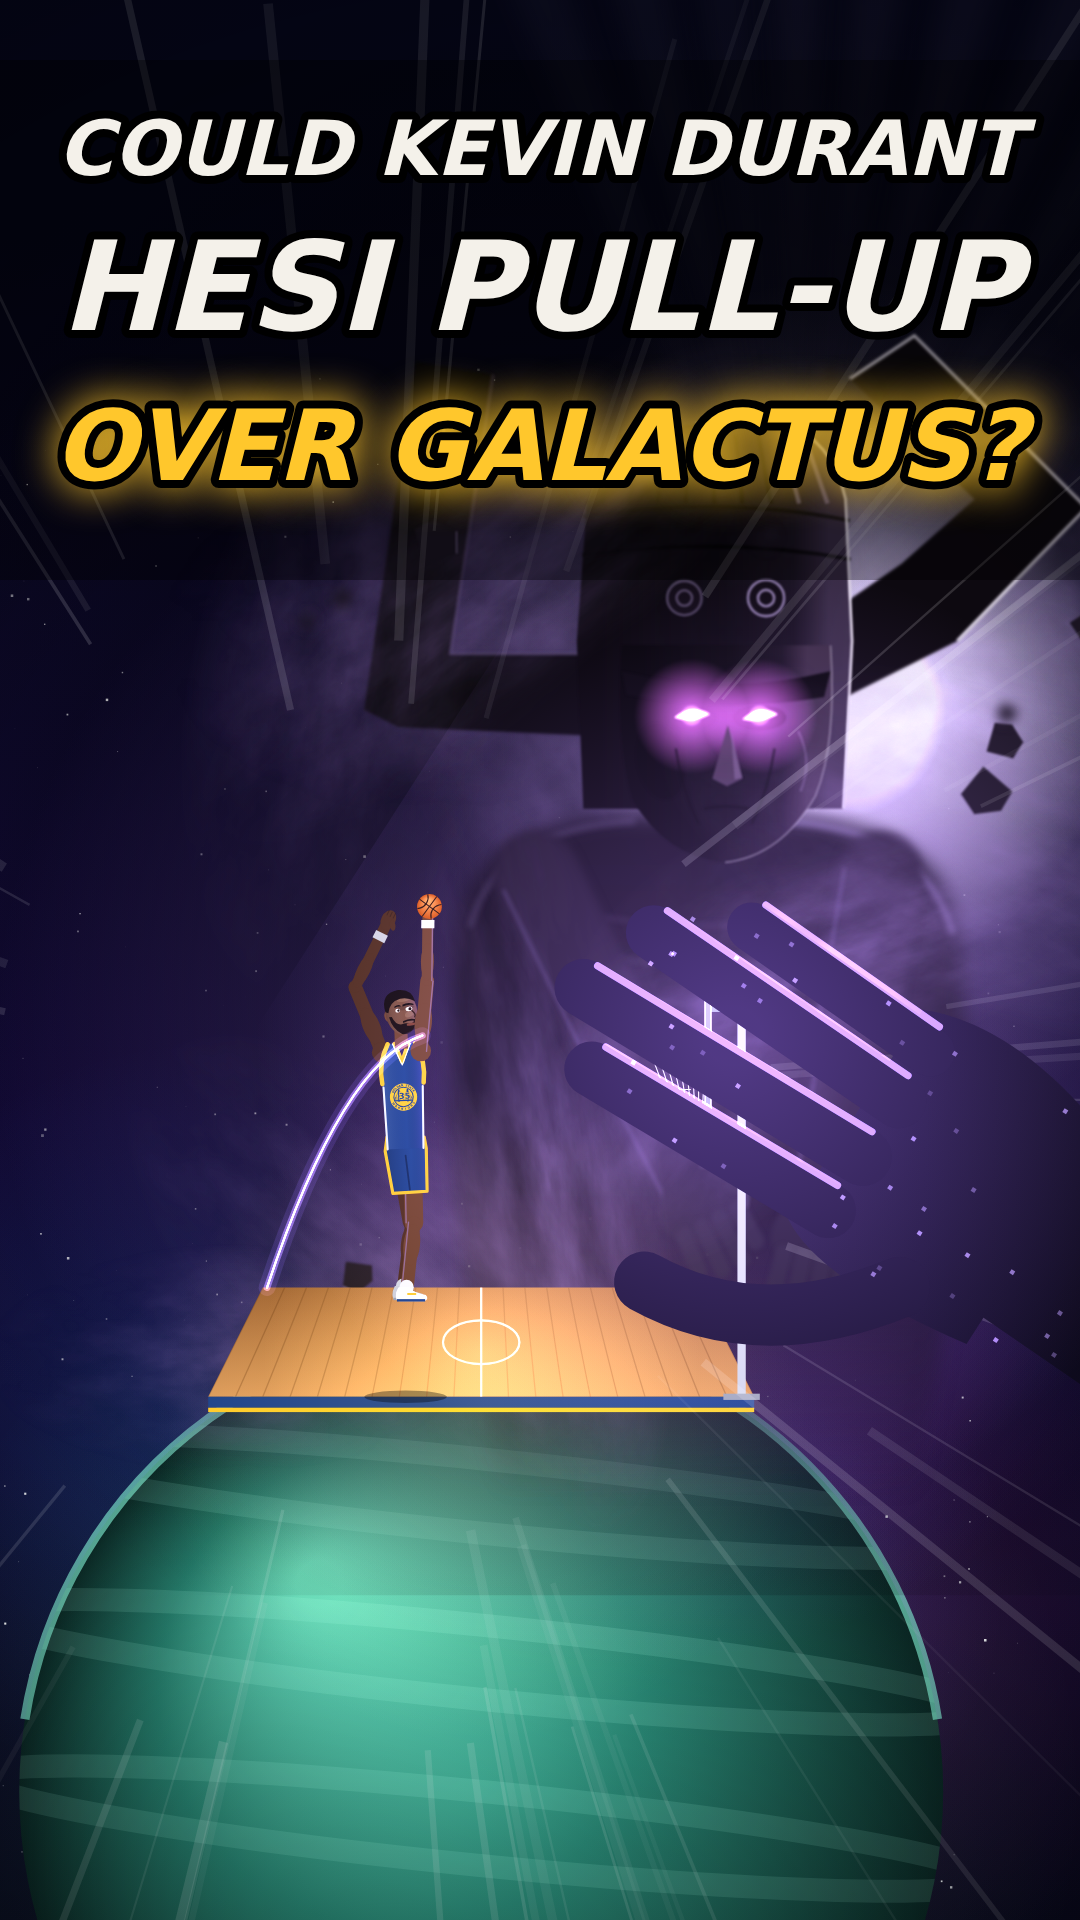
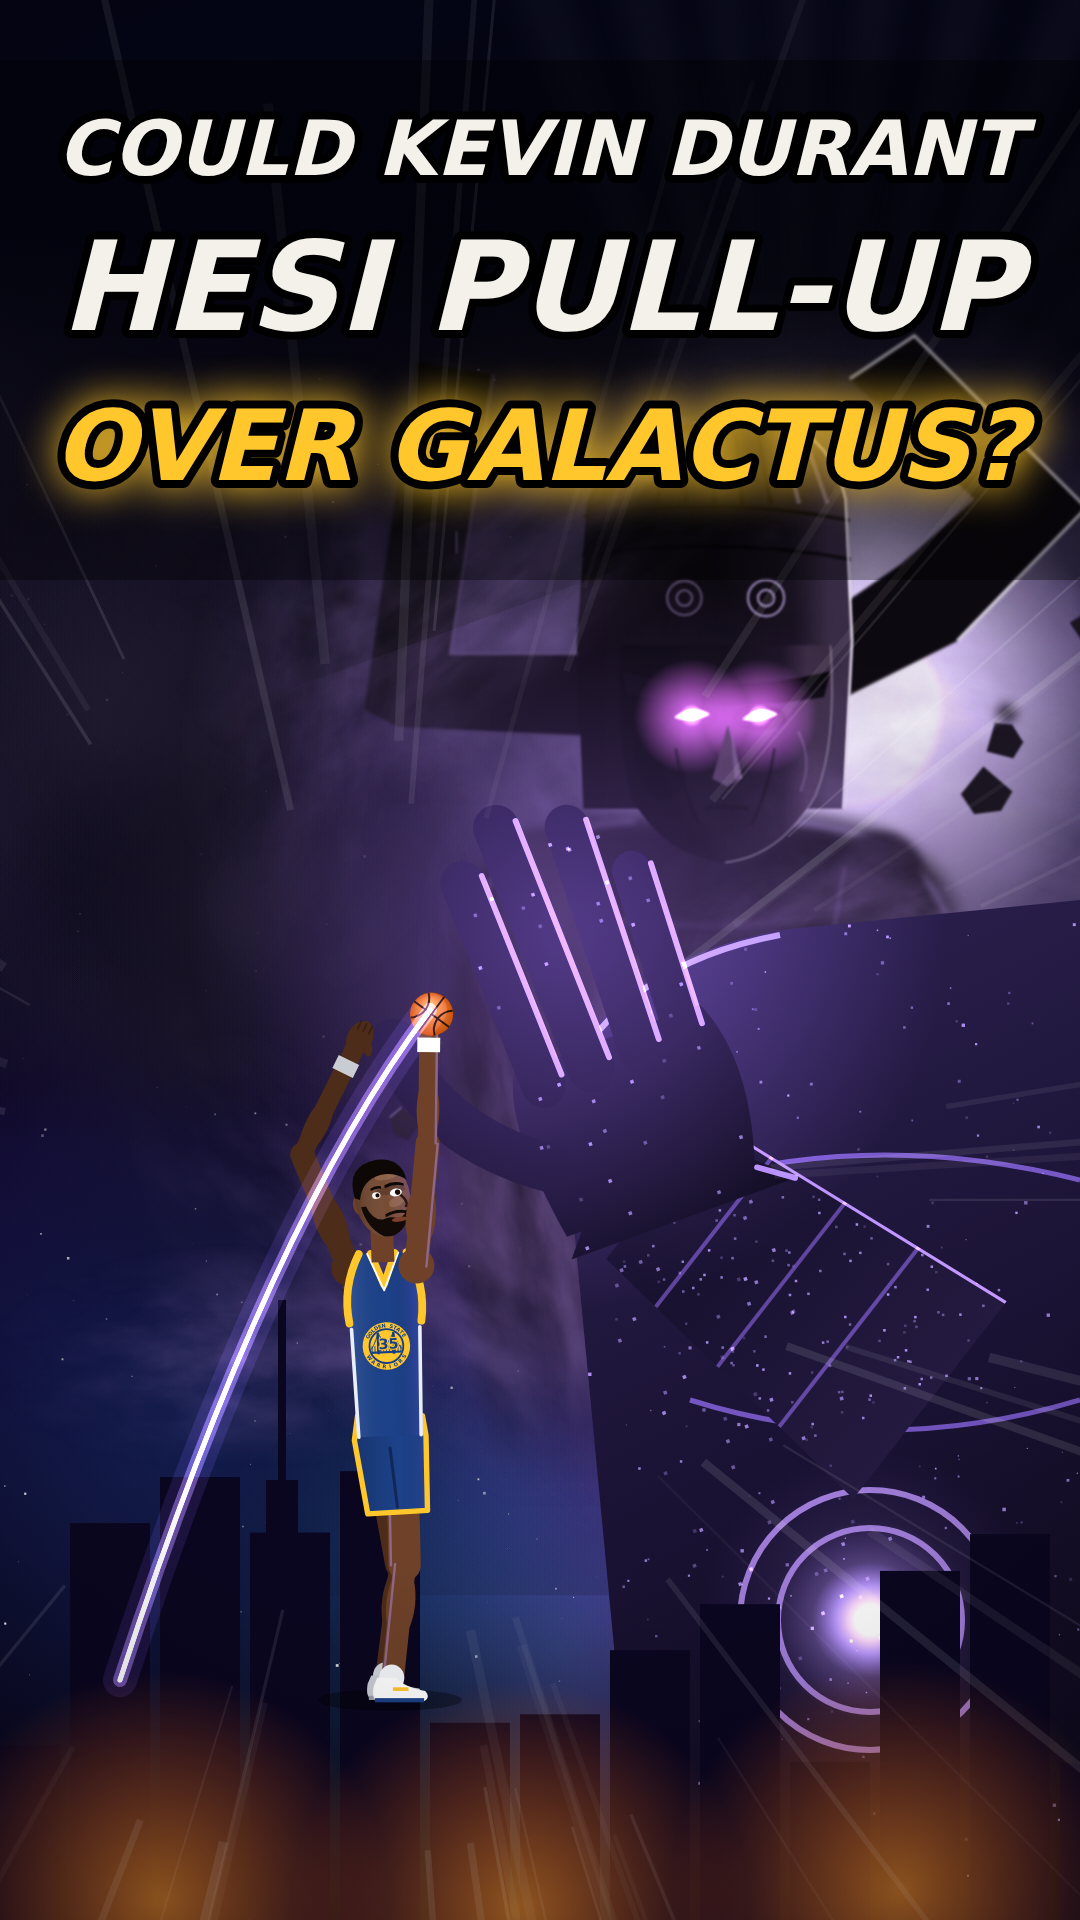
KD vs Galactus: thumbnail with Galactus arm attached to his body, city, ball trail
Claude-Session: https://claude.ai/code/session_013waGN2ARspf4yShZssZUe5

diff --git a/youtube/you-experiment/kd-galactus/source_code/thumbv.html b/youtube/you-experiment/kd-galactus/source_code/thumbv.html
@@ -253,10 +253,10 @@ window.renderFrame = (f) => { const t = f / 30; T = t; SHK = 0; g.setTransform(1
   if (u < 0.1 && i > 0) { g.fillStyle = `rgba(255,255,255,${0.08 * (1 - u / 0.1)})`; g.fillRect(0, 0, W, H); }
   return true; };
 
-const blockHand = (x, y, sc, rot) => { g.save(); g.translate(x, y); g.rotate(rot); g.scale(sc, sc);
+const blockHand = (x, y, sc, rot, fl = 900) => { g.save(); g.translate(x, y); g.rotate(rot); g.scale(sc, sc);
   const body = g.createLinearGradient(-100, -200, 120, 160); body.addColorStop(0, '#2a1f45'); body.addColorStop(0.6, '#150f2b'); body.addColorStop(1, '#0a0716');
   // forearm
-  g.fillStyle = body; g.beginPath(); g.moveTo(-70, 120); g.lineTo(-95, 900); g.lineTo(115, 900); g.lineTo(80, 120); g.closePath(); g.fill();
+  g.fillStyle = body; g.beginPath(); g.moveTo(-70, 120); g.lineTo(-95, fl); g.lineTo(115, fl); g.lineTo(80, 120); g.closePath(); g.fill();
   // palm
   g.beginPath(); g.moveTo(-92, 130); g.quadraticCurveTo(-110, 20, -86, -20); g.lineTo(86, -20); g.quadraticCurveTo(112, 40, 82, 130); g.closePath(); g.fill();
   const fing = [[-66, -190, 38], [-22, -225, 40], [24, -205, 38], [64, -150, 34]];
@@ -266,21 +266,44 @@ const blockHand = (x, y, sc, rot) => { g.save(); g.translate(x, y); g.rotate(rot
   g.save(); g.clip && 0; g.globalCompositeOperation = 'lighter';
   for (let k = 0; k < 90; k++) { g.fillStyle = `rgba(200,170,255,${0.2 + hash(k) * 0.5})`; g.fillRect(-90 + hash(k * 3 + 1) * 180, -200 + hash(k * 5 + 2) * 760, 3, 3); }
   g.strokeStyle = 'rgba(190,150,255,0.85)'; g.lineWidth = 5; for (const [fx, ty] of fing) { g.beginPath(); g.moveTo(fx + 18, -4); g.lineTo(fx + (fx > 0 ? 6 : -6) + 18, ty); g.stroke(); }
-  g.beginPath(); g.moveTo(84, 130); g.lineTo(112, 900); g.stroke(); g.restore();
+  g.beginPath(); g.moveTo(84, 130); g.lineTo(112, fl); g.stroke(); g.restore();
   const pg2 = g.createRadialGradient(0, -120, 20, 0, -120, 330); pg2.addColorStop(0, 'rgba(170,120,255,0.35)'); pg2.addColorStop(1, 'rgba(170,120,255,0)'); g.globalCompositeOperation = 'lighter'; g.fillStyle = pg2; g.fillRect(-400, -400, 800, 800);
   g.restore(); };
-window.renderThumb = () => { T = 2.2; g.setTransform(1, 0, 0, 1, 0, 0); g.save(); cam(TZ, TFX, TFY); nebula(0, 0); planet(560, 2500, 1100);
-  const gl = g.createRadialGradient(900, 700, 50, 900, 700, 1500); gl.addColorStop(0, 'rgba(190,150,255,0.5)'); gl.addColorStop(1, 'rgba(120,80,220,0)'); g.fillStyle = gl; g.fillRect(-2000, -2000, 8000, 6000);
-  giant(TGX, 1560, 1.05, { left: TL, hand: 0.1, eyes: 1.9 });
-  court(560, 1560, 1300); hoop(1180, 1560, 0.62);
-  kd(TKX, 1560, TKS, P.shoot, { jump: 230, holdBall: true });
-  g.save(); g.globalCompositeOperation = 'lighter'; g.lineCap = 'round'; for (const [w, a, col] of [[40, 0.12, '150,110,255'], [16, 0.4, '190,150,255'], [5, 0.95, '245,235,255']]) { g.strokeStyle = `rgba(${col},${a})`; g.lineWidth = w; g.beginPath(); g.moveTo(TKX - 330, 1300); g.quadraticCurveTo(TKX - 150, 760, TKX + 40, TBY); g.stroke(); } g.restore();
-  g.restore(); speedLines(380, 1100, 0.2);
-  blockHand(HX, HY, HS, HR);
-  const vg = g.createRadialGradient(W / 2, 1000, H * 0.3, W / 2, 1000, H * 0.8); vg.addColorStop(0, 'rgba(0,0,0,0)'); vg.addColorStop(1, 'rgba(0,0,0,0.55)'); g.fillStyle = vg; g.fillRect(0, 0, W, H);
+const armorTorso = () => { g.save();
+  const body = g.createLinearGradient(600, 950, 1080, 1900); body.addColorStop(0, '#2c2150'); body.addColorStop(0.5, '#1a1233'); body.addColorStop(1, '#0c0818');
+  g.fillStyle = body; g.beginPath(); g.moveTo(560, 1080); g.quadraticCurveTo(620, 960, 780, 930); g.lineTo(1080, 900); g.lineTo(1080, 1920); g.lineTo(640, 1920); g.quadraticCurveTo(600, 1500, 560, 1080); g.closePath(); g.fill();
+  g.save(); g.clip(); g.globalCompositeOperation = 'lighter'; for (let k = 0; k < 260; k++) { g.fillStyle = `rgba(200,170,255,${0.15 + hash(k) * 0.6})`; const r = 1 + hash(k + 9) * 2.5; g.fillRect(560 + hash(k * 3 + 1) * 520, 920 + hash(k * 5 + 2) * 1000, r, r); }
+  g.strokeStyle = 'rgba(160,120,255,0.55)'; g.lineWidth = 5; g.beginPath(); g.moveTo(700, 1180); g.quadraticCurveTo(880, 1130, 1080, 1180); g.stroke(); g.beginPath(); g.moveTo(690, 1400); g.quadraticCurveTo(880, 1460, 1080, 1400); g.stroke(); g.restore();
+  // chest core
+  for (const [r, a] of [[170, 0.18], [100, 0.45], [58, 0.9]]) { const q = g.createRadialGradient(870, 1620, 2, 870, 1620, r); q.addColorStop(0, `rgba(235,215,255,${a})`); q.addColorStop(1, 'rgba(150,100,255,0)'); g.globalCompositeOperation = 'lighter'; g.fillStyle = q; g.fillRect(870 - r, 1620 - r, 2 * r, 2 * r); }
+  g.globalCompositeOperation = 'source-over'; g.strokeStyle = 'rgba(190,150,255,0.8)'; g.lineWidth = 6; g.beginPath(); g.arc(870, 1620, 92, 0, 7); g.stroke(); g.beginPath(); g.arc(870, 1620, 130, 0, 7); g.stroke();
+  // rim light on the shoulder line
+  g.strokeStyle = 'rgba(200,170,255,0.8)'; g.lineWidth = 6; g.beginPath(); g.moveTo(565, 1085); g.quadraticCurveTo(620, 965, 780, 935); g.stroke();
+  g.restore(); };
+const armLimb = (sx, sy, wx, wy, w0, w1) => { g.save(); const dx = wx - sx, dy = wy - sy, L = Math.hypot(dx, dy), nx = -dy / L, ny = dx / L;
+  const body = g.createLinearGradient(sx, sy, wx, wy); body.addColorStop(0, '#241a40'); body.addColorStop(1, '#150f2b'); g.fillStyle = body;
+  g.beginPath(); g.moveTo(sx + nx * w0 / 2, sy + ny * w0 / 2); g.lineTo(wx + nx * w1 / 2, wy + ny * w1 / 2); g.lineTo(wx - nx * w1 / 2, wy - ny * w1 / 2); g.lineTo(sx - nx * w0 / 2, sy - ny * w0 / 2); g.closePath(); g.fill();
+  g.save(); g.clip(); g.globalCompositeOperation = 'lighter'; for (let k = 0; k < 150; k++) { g.fillStyle = `rgba(200,170,255,${0.15 + hash(k + 40) * 0.6})`; const t = hash(k * 3), o = (hash(k * 5 + 1) - 0.5) * w0; g.fillRect(sx + dx * t + nx * o, sy + dy * t + ny * o, 2.5, 2.5); }
+  g.strokeStyle = 'rgba(190,150,255,0.85)'; g.lineWidth = 6; g.beginPath(); g.moveTo(sx + nx * w0 / 2, sy + ny * w0 / 2); g.lineTo(wx + nx * w1 / 2, wy + ny * w1 / 2); g.stroke();
+  for (const t of [0.3, 0.55, 0.8]) { g.strokeStyle = 'rgba(150,110,240,0.45)'; g.lineWidth = 4; const cx = sx + dx * t, cy = sy + dy * t, w = lerp(w0, w1, t) / 2; g.beginPath(); g.moveTo(cx + nx * w, cy + ny * w); g.lineTo(cx - nx * w, cy - ny * w); g.stroke(); } g.restore();
+  g.restore(); };
+window.renderThumb = () => { T = 2.2; g.setTransform(1, 0, 0, 1, 0, 0); g.save(); cam(TZ, TFX, TFY); nebula(0, 0);
+  for (let k = 0; k < 70; k++) { const cx = -1200 + hash(k * 3 + 1) * 3200, cy = -800 + hash(k * 5 + 2) * 1600, r = 260 + hash(k * 7 + 3) * 520, dk = 0.35 + hash(k * 11 + 4) * 0.5; const q = g.createRadialGradient(cx, cy, 10, cx, cy, r); q.addColorStop(0, `rgba(${40 + 50 * (1 - dk) | 0},${34 + 40 * (1 - dk) | 0},${60 + 50 * (1 - dk) | 0},${0.55 * dk})`); q.addColorStop(1, 'rgba(10,8,25,0)'); g.fillStyle = q; g.fillRect(cx - r, cy - r, 2 * r, 2 * r); }
+  const gl = g.createRadialGradient(1500, 500, 50, 1500, 500, 1500); gl.addColorStop(0, 'rgba(190,150,255,0.5)'); gl.addColorStop(1, 'rgba(120,80,220,0)'); g.fillStyle = gl; g.fillRect(-2000, -2000, 8000, 6000);
+  giant(TGX, 1560, 1.05, { left: 0.2, hand: 0.1, eyes: 1.9 });
+  g.restore();
+  armorTorso();
+  armLimb(930, 1400, 660, 1190, 250, 175);
+  blockHand(615, 1060, 1.15, -0.35, 150);
+  // city + fire
+  g.fillStyle = '#0a0620'; for (let k = 0; k < 13; k++) { const bx = k * 90 - 20, bh = 140 + hash(k * 3 + 1) * 330; g.fillRect(bx, 1920 - bh, 80, bh + 10); } g.fillRect(250, 1560, 64, 400); g.fillRect(266, 1480, 32, 90); g.fillRect(278, 1300, 8, 190);
+  for (const [fx, fy] of [[160, 1900], [520, 1910], [900, 1890]]) { const q = g.createRadialGradient(fx, fy, 5, fx, fy, 230); q.addColorStop(0, 'rgba(255,150,40,0.65)'); q.addColorStop(1, 'rgba(255,90,20,0)'); g.fillStyle = q; g.fillRect(fx - 230, fy - 230, 460, 460); }
+  kd(TKXs, 1700, 0.6, P.shoot, { holdBall: true });
+  g.save(); g.globalCompositeOperation = 'lighter'; g.lineCap = 'round'; for (const [w, a, col] of [[34, 0.12, '150,110,255'], [14, 0.4, '190,150,255'], [5, 0.95, '245,235,255']]) { g.strokeStyle = `rgba(${col},${a})`; g.lineWidth = w; g.beginPath(); g.moveTo(TKXs - 270, 1680); g.quadraticCurveTo(TKXs - 120, 1220, TKXs + 40, 1010); g.stroke(); } g.restore();
+  speedLines(380, 1200, 0.15);
+  const vg = g.createRadialGradient(W / 2, 1000, H * 0.3, W / 2, 1000, H * 0.8); vg.addColorStop(0, 'rgba(0,0,0,0)'); vg.addColorStop(1, 'rgba(0,0,0,0.5)'); g.fillStyle = vg; g.fillRect(0, 0, W, H);
   g.fillStyle = 'rgba(0,0,0,0.35)'; g.fillRect(0, 60, W, 520);
   txt('COULD KEVIN DURANT', 540, 175, 92, C.white); txt('HESI PULL-UP', 540, 330, 128, C.white); txt('OVER GALACTUS?', 540, 480, 118, C.gold, { glow: C.gold }); return true; };
-const HX = 880, HY = 1130, HS = 1.45, HR = -1.0;
-const TZ = 0.42, TFX = 700, TFY = 520, TGX = 1100, TL = 0.2, TKX = 380, TKS = 0.82, TBY = 700;
+const TZ = 0.42, TFX = 700, TFY = 520, TGX = 1100, TKXs = 390;
 fetch('./words.json').then((r) => r.json()).then((w) => { WORDS = w; window.ready = true; });
 </script></body></html>
